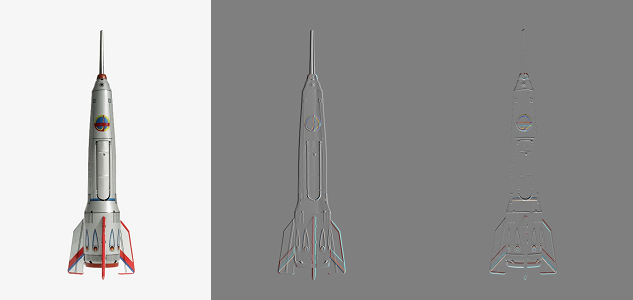
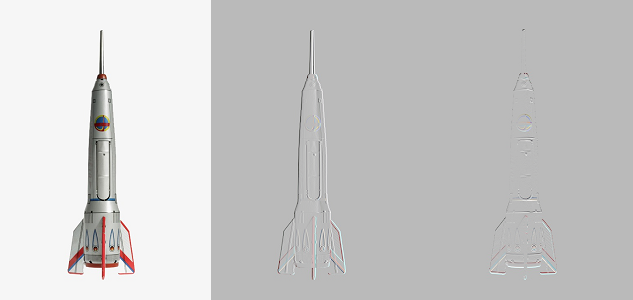
sRGB correct, clamp and work in float

diff --git a/Main.cpp b/Main.cpp
@@ -10,24 +10,38 @@
 #define STBI_MSC_SECURE_CRT
 #include "stb/stb_image_write.h"
 
+const float c_gamma = 2.2f;
+
 struct SImageInfo
 {
-    stbi_uc* m_pixels   = nullptr;
-    int m_width         = 0;
-    int m_height        = 0;
-    int m_channels      = 0;
+    std::vector<float>  m_pixels;
+    int m_width = 0;
+    int m_height = 0;
+    int m_channels = 0;
 
-    bool Load (const char *fileName)
+    bool Load(const char *fileName)
     {
-        m_pixels = stbi_load(fileName, &m_width, &m_height, &m_channels, 3);
-        if (m_pixels == nullptr)
+        // load image
+        stbi_uc* pixels = stbi_load(fileName, &m_width, &m_height, &m_channels, 3);
+        if (pixels == nullptr)
+        {
             printf("Could not load file %s\n", fileName);
-        return m_pixels != nullptr;
-    }
+            return false;
+        }
 
-    ~SImageInfo()
-    {
-        stbi_image_free(m_pixels);
+        // convert to float and convert from sRGB to linear
+        m_pixels.resize(m_width*m_height * 3);
+        stbi_uc* srcPixel = pixels;
+        for (float& pixel : m_pixels)
+        {
+            pixel = float(*srcPixel) / 255.0f;
+            pixel = std::powf(pixel, c_gamma);
+            ++srcPixel;
+        }
+
+        // free pixels and return success
+        stbi_image_free(pixels);
+        return true;
     }
 };
 
@@ -36,17 +50,31 @@ struct SRect
     int x1, y1, x2, y2;
 };
 
-bool WriteImage (const char *fileName, int width, int height, stbi_uc* pixels)
+bool WriteImage (const char *fileName, int width, int height, std::vector<float>& pixels)
 {
-    return stbi_write_png(fileName, width, height, 3, pixels, 3 * width) != 0;
+    // convert from linear to sRGB, clamp, and convert to uint8.
+    std::vector<stbi_uc> outPixels;
+    outPixels.resize(width*height * 3);
+    float* srcPixel = &pixels[0];
+    for (stbi_uc& pixel : outPixels)
+    {
+        float value = std::powf(*srcPixel, 1.0f / c_gamma);
+        if (value < 0.0f)
+            value = 0.0f;
+        else if (value > 1.0f)
+            value = 1.0f;
+        pixel = stbi_uc(value*255.0f);
+        ++srcPixel;
+    }
+
+    return stbi_write_png(fileName, width, height, 3, &outPixels[0], 3 * width) != 0;
 }
 
 void NaivePaste (const SImageInfo &source, const SImageInfo &dest, int pasteX, int pasteY, const char* fileName)
 {
     // copy the destination image to an out image buffer
-    std::vector<stbi_uc> outPixels;
-    outPixels.resize(dest.m_width*dest.m_height * 3);
-    memcpy(&outPixels[0], dest.m_pixels, outPixels.size());
+    std::vector<float> outPixels;
+    outPixels = dest.m_pixels;
 
     // calculate details of paste, handling negative paste locations and images larger than the destination etc.
     SRect sourceRect = { 0, 0, source.m_width, source.m_height };
@@ -85,23 +113,22 @@ void NaivePaste (const SImageInfo &source, const SImageInfo &dest, int pasteX, i
     {
         for (int y = 0; y < copyHeight; ++y)
         {
-            stbi_uc* sourcePixels = &source.m_pixels[((sourceRect.y1 + y)*source.m_width + sourceRect.x1) * 3];
-            stbi_uc* destPixels = &outPixels[((destRect.y1 + y)*dest.m_width + destRect.x1) * 3];
-            memcpy(destPixels, sourcePixels, copyWidth * 3);
+            const float* sourcePixels = &source.m_pixels[((sourceRect.y1 + y)*source.m_width + sourceRect.x1) * 3];
+            float* destPixels = &outPixels[((destRect.y1 + y)*dest.m_width + destRect.x1) * 3];
+            memcpy(destPixels, sourcePixels, copyWidth * 3 * sizeof(sourcePixels[0]));
         }
     }
 
     // write the file
-    if (!WriteImage(fileName, dest.m_width, dest.m_height, &outPixels[0]))
+    if (!WriteImage(fileName, dest.m_width, dest.m_height, outPixels))
         printf(__FUNCTION__ "() error: Could not write %s\n", fileName);
 }
 
-void NaiveGradientPaste (const SImageInfo &source, std::vector<int>& sourceGradient, const SImageInfo &dest, int pasteX, int pasteY, const char* fileName)
+void NaiveGradientPaste (const SImageInfo &source, std::vector<float>& sourceGradient, const SImageInfo &dest, int pasteX, int pasteY, const char* fileName)
 {
     // copy the destination image to an out image buffer
-    std::vector<stbi_uc> outPixels;
-    outPixels.resize(dest.m_width*dest.m_height * 3);
-    memcpy(&outPixels[0], dest.m_pixels, outPixels.size());
+    std::vector<float> outPixels;
+    outPixels = dest.m_pixels;
 
     // calculate details of paste, handling negative paste locations and images larger than the destination etc.
     SRect sourceRect = { 0, 0, source.m_width, source.m_height };
@@ -140,9 +167,9 @@ void NaiveGradientPaste (const SImageInfo &source, std::vector<int>& sourceGradi
     {
         for (int y = 1; y < copyHeight; ++y)
         {
-            stbi_uc* sourcePixel = &source.m_pixels[((sourceRect.y1 + y)*source.m_width + sourceRect.x1) * 3];
-            int* sourceGradientPixel = &sourceGradient[((sourceRect.y1 + y)*source.m_width + sourceRect.x1) * 6];
-            stbi_uc* destPixel = &outPixels[((destRect.y1 + y)*dest.m_width + destRect.x1) * 3];
+            const float* sourcePixel = &source.m_pixels[((sourceRect.y1 + y)*source.m_width + sourceRect.x1) * 3];
+            const float* sourceGradientPixel = &sourceGradient[((sourceRect.y1 + y)*source.m_width + sourceRect.x1) * 6];
+            float* destPixel = &outPixels[((destRect.y1 + y)*dest.m_width + destRect.x1) * 3];
             for (int x = 1; x < copyWidth; ++x)
             {
                 destPixel[0] = destPixel[-3] + sourceGradientPixel[0];
@@ -158,34 +185,34 @@ void NaiveGradientPaste (const SImageInfo &source, std::vector<int>& sourceGradi
     }
 
     // write the file
-    if (!WriteImage(fileName, dest.m_width, dest.m_height, &outPixels[0]))
+    if (!WriteImage(fileName, dest.m_width, dest.m_height, outPixels))
         printf(__FUNCTION__ "() error: Could not write %s\n", fileName);
 }
 
-void MakeImageGradient(const SImageInfo& source, std::vector<int>& sourceGradient)
+void MakeImageGradient(const SImageInfo& source, std::vector<float>& sourceGradient)
 {
     // allocate space for the gradients
     sourceGradient.resize(source.m_width*source.m_height * 6);
-    std::fill(sourceGradient.begin(), sourceGradient.end(), 0);
+    std::fill(sourceGradient.begin(), sourceGradient.end(), 0.0f);
 
     // make the gradients!
-    const stbi_uc* sourcePixel = source.m_pixels;
-    const stbi_uc* sourcePixelNextRow = sourcePixel + source.m_width * 3;
+    const float* sourcePixel = &source.m_pixels[0];
+    const float* sourcePixelNextRow = sourcePixel + source.m_width * 3;
 
-    int* destPixel = &sourceGradient[0];
+    float* destPixel = &sourceGradient[0];
     for (int y = 0; y < source.m_height-1; ++y)
     {
         for (int x = 0; x < source.m_width-1; ++x)
         {
             // calculate RGB dfdx
-            destPixel[0] = (int)sourcePixel[3] - (int)sourcePixel[0];
-            destPixel[1] = (int)sourcePixel[4] - (int)sourcePixel[1];
-            destPixel[2] = (int)sourcePixel[5] - (int)sourcePixel[2];
+            destPixel[0] = sourcePixel[3] - sourcePixel[0];
+            destPixel[1] = sourcePixel[4] - sourcePixel[1];
+            destPixel[2] = sourcePixel[5] - sourcePixel[2];
 
             // calculate RGB dfdy
-            destPixel[3] = (int)sourcePixelNextRow[0] - (int)sourcePixel[0];
-            destPixel[4] = (int)sourcePixelNextRow[1] - (int)sourcePixel[1];
-            destPixel[5] = (int)sourcePixelNextRow[2] - (int)sourcePixel[2];
+            destPixel[3] = sourcePixelNextRow[0] - sourcePixel[0];
+            destPixel[4] = sourcePixelNextRow[1] - sourcePixel[1];
+            destPixel[5] = sourcePixelNextRow[2] - sourcePixel[2];
 
             // move to the next pixels
             sourcePixel += 3;
@@ -195,34 +222,34 @@ void MakeImageGradient(const SImageInfo& source, std::vector<int>& sourceGradien
     }
 }
 
-void SaveImageGradient(const SImageInfo& source, const std::vector<int>& sourceGradient, const char* fileName)
+void SaveImageGradient(const SImageInfo& source, const std::vector<float>& sourceGradient, const char* fileName)
 {
     // Save the gradient as a side by side double wide image.
     // The left side is the x axis partial derivatives, the right side is the y axis.
-    std::vector<stbi_uc> outPixels;
+    std::vector<float> outPixels;
     outPixels.resize((source.m_width * 3 * source.m_height) * 3);
 
-    const stbi_uc* sourcePixel0 = source.m_pixels;
-    const int* sourcePixel1 = &sourceGradient[0];
+    const float* sourcePixel0 = &source.m_pixels[0];
+    const float* sourcePixel1 = &sourceGradient[0];
 
     for (int y = 0; y < source.m_height; ++y)
     {
-        stbi_uc* destPixel0 = &outPixels[y*source.m_width * 9];
-        stbi_uc* destPixel1 = &outPixels[y*source.m_width * 9 + source.m_width * 3];
-        stbi_uc* destPixel2 = &outPixels[y*source.m_width * 9 + source.m_width * 6];
+        float* destPixel0 = &outPixels[y*source.m_width * 9];
+        float* destPixel1 = &outPixels[y*source.m_width * 9 + source.m_width * 3];
+        float* destPixel2 = &outPixels[y*source.m_width * 9 + source.m_width * 6];
         for (int x = 0; x < source.m_width; ++x)
         {
             destPixel0[0] = sourcePixel0[0];
             destPixel0[1] = sourcePixel0[1];
             destPixel0[2] = sourcePixel0[2];
 
-            destPixel1[0] = stbi_uc((sourcePixel1[0] + 255) / 2);
-            destPixel1[1] = stbi_uc((sourcePixel1[1] + 255) / 2);
-            destPixel1[2] = stbi_uc((sourcePixel1[2] + 255) / 2);
+            destPixel1[0] = (sourcePixel1[0] * 0.5f) + 0.5f;
+            destPixel1[1] = (sourcePixel1[1] * 0.5f) + 0.5f;
+            destPixel1[2] = (sourcePixel1[2] * 0.5f) + 0.5f;
 
-            destPixel2[0] = stbi_uc((sourcePixel1[3] + 255) / 2);
-            destPixel2[1] = stbi_uc((sourcePixel1[4] + 255) / 2);
-            destPixel2[2] = stbi_uc((sourcePixel1[5] + 255) / 2);
+            destPixel2[0] = (sourcePixel1[3] * 0.5f) + 0.5f;
+            destPixel2[1] = (sourcePixel1[4] * 0.5f) + 0.5f;
+            destPixel2[2] = (sourcePixel1[5] * 0.5f) + 0.5f;
 
             // move to the next pixels
             destPixel0 += 3;
@@ -234,7 +261,7 @@ void SaveImageGradient(const SImageInfo& source, const std::vector<int>& sourceG
     }
 
     // save the file
-    if (!WriteImage(fileName, source.m_width*3, source.m_height, &outPixels[0]))
+    if (!WriteImage(fileName, source.m_width*3, source.m_height, outPixels))
         printf(__FUNCTION__ "() error: Could not write %s\n", fileName);
 }
 
@@ -267,7 +294,7 @@ int main(int argc, char** argv)
     NaivePaste(source, dest, pasteX, pasteY, "out_paste_naive.png");
 
     // make the source image gradient and save it
-    std::vector<int> sourceGradient;
+    std::vector<float> sourceGradient;
     MakeImageGradient(source, sourceGradient);
     SaveImageGradient(source, sourceGradient, "out_gradient.png");
 
@@ -283,7 +310,17 @@ int main(int argc, char** argv)
 
 TODO:
 
+? try alpha fading the edges of the image in naive paste to hide the discontinuity?
+
+* use alpha channel as mask.
+
+* work in linear space
+
+* clamp colors i guess
+
 * the partial derivatives add too much i think since they have a full sized delta on X and Y axis. Do i need to chop it in half or something maybe?
+ * i think the real issue is they are just constraints that need to be obeyed.
+
 * i think the mask really will be needed. the paste destroys the background!
 
 
